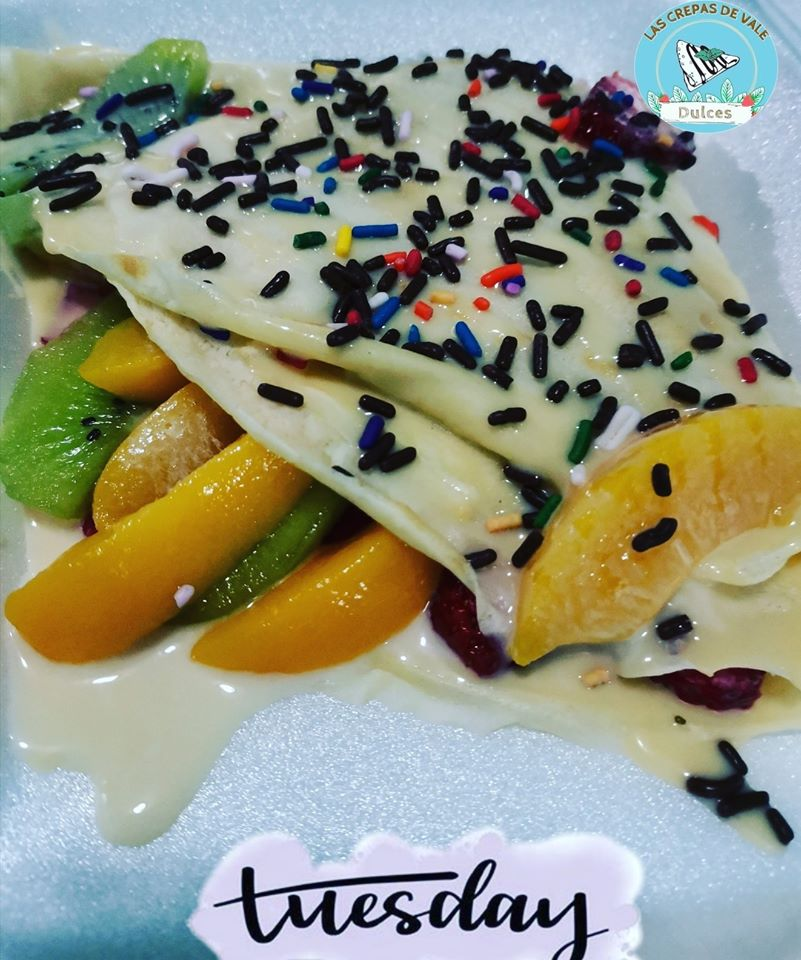
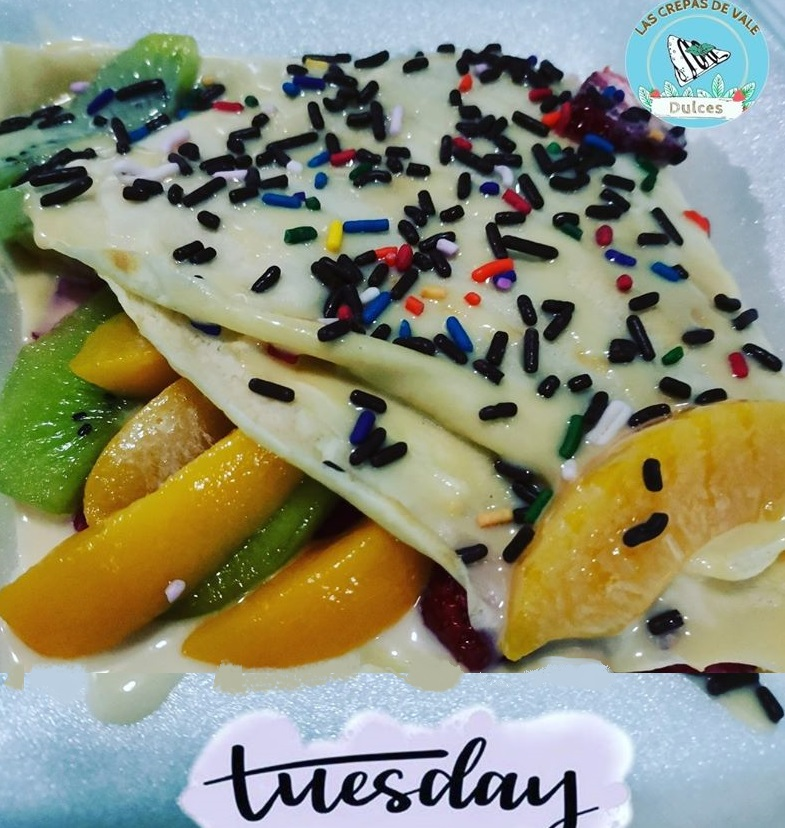
Estilo de cuadritos

diff --git a/src/components/Order/Order.js b/src/components/Order/Order.js
@@ -17,6 +17,9 @@ class Order extends Component {
           {Imagen:"Monday",Relleno:"Nutella", Frutas:"Melocoton, Fresa y Kiwi", Toppings:"Chocolate y caramelo",Precio:2000}, 
           {Imagen:"wednesday",Relleno:"Nutella", Frutas:"Melocoton, Fresa y Kiwi", Toppings:"Chocolate",Precio:2000},  
           {Imagen:"thursday",Relleno:"Nutella", Frutas:"Melocoton, Fresa y Kiwi", Toppings:"Chocolate",Precio:2000}, 
+          {Imagen:"tuesday",Relleno:"Nutella", Frutas:"Melocoton, Fresa y Kiwi", Toppings:"Chocolate",Precio:2000},
+          {Imagen:"wednesday",Relleno:"Nutella", Frutas:"Melocoton, Fresa y Kiwi", Toppings:"Chocolate",Precio:2000},  
+          {Imagen:"thursday",Relleno:"Nutella", Frutas:"Melocoton, Fresa y Kiwi", Toppings:"Chocolate",Precio:2000}, 
           {Imagen:"tuesday",Relleno:"Nutella", Frutas:"Melocoton, Fresa y Kiwi", Toppings:"Chocolate",Precio:2000}
         ];
         return  listCrepas.map((crepas, i)=> 

diff --git a/src/components/Schedule/schedule.css b/src/components/Schedule/schedule.css
@@ -15,13 +15,13 @@
 }
 
 #container1{
-    background-color:#F9B4E1;
+    background-image: url("/imgs/cuadro1.png");
 }
 #container2{
-    background-color: #DEA365;
+    background-image: url("/imgs/cuadro2.png");
 }
 #container3{
-    background-color: #f6f983;
+    background-image: url("/imgs/cuadro3.png");
 }
 .container-cajitas{
     width:25%;
@@ -29,14 +29,23 @@
     display:inline-block;
     margin: 15px;
     padding: 1%;
+    background-repeat: no-repeat;
+    background-size: cover;
+    background-position: 3px 3px;
+
 }
 
 
-@media only screen and (max-width: 680px) {
-    .container-cajitas{
-        width:85%;
+
+@media only screen and (max-width: 780px) {
+    .container-cajitas {
+        width:93%;
         display: block;
         margin: 10px auto;
+        background-repeat: no-repeat;
     }
+  
     
   }
+
+  

diff --git a/src/components/Crepas/Crepas.js b/src/components/Crepas/Crepas.js
@@ -12,10 +12,13 @@ class Crepas extends Component {
     }
 
     render() {
+        const divStyle = {
+            backgroundImage: 'url('+'/imgs/' + this.props.CrepasProps.Imagen +'.jpg'+ ')' };
         return (
             <div  className="crepa">
-                <div >
-                    <img className="crepa-imgs" src={"/imgs/"+this.props.CrepasProps.Imagen+".jpg"}></img>
+                
+                <div style={divStyle} className="crepa-imgs" >
+                   {/**<img className="crepa-imgs" src={"/imgs/"+this.props.CrepasProps.Imagen+".jpg"}></img> */} 
                 </div>
                 <div className="box-description">
                     <div id="crepaDescripcion">

diff --git a/src/components/Crepas/crepas.css b/src/components/Crepas/crepas.css
@@ -18,13 +18,18 @@
         width:85%;
         display: block;
         margin:auto;
-        
+        margin-top: 10px;
     
     }
   }
 
 .crepa-imgs{
-    width: 75%;
+    width: 100%;
+    height: 314px;
+    display: block;
+    background-position: -7px -68px;
+    background-repeat: no-repeat;
+    background-size: cover;
 }
 
 .box-description{
@@ -53,6 +58,7 @@
     background-color: red;
     padding: 10px;
     color: #fff;
+    cursor: pointer;
 }
 #boxBtn{
     padding: 2%;

diff --git a/src/components/General/Navigation/Navigation.css b/src/components/General/Navigation/Navigation.css
@@ -73,17 +73,18 @@ padding:10px 16px;
 @media screen and (min-width: 800px) {   
     
 .nav{
-    width:50vw;
+    width:30vw;
     -webkit-box-shadow:none;
     box-shadow:none;
     position: absolute;
-    left:50vw;
+    left:49vw;
     -webkit-transition: none; 
     -o-transition: none; 
     transition: none;
     margin-left: 22px;
     background-color: #58c5f5;
 }
+
 .menu-button i{
     display: none;
 left: -80px;

diff --git a/src/components/Order/order.css b/src/components/Order/order.css
@@ -1,6 +1,6 @@
 #order h1{
-    color: cadetblue;
     text-align: center;
+    font-size: 40px;
     
 }
  
